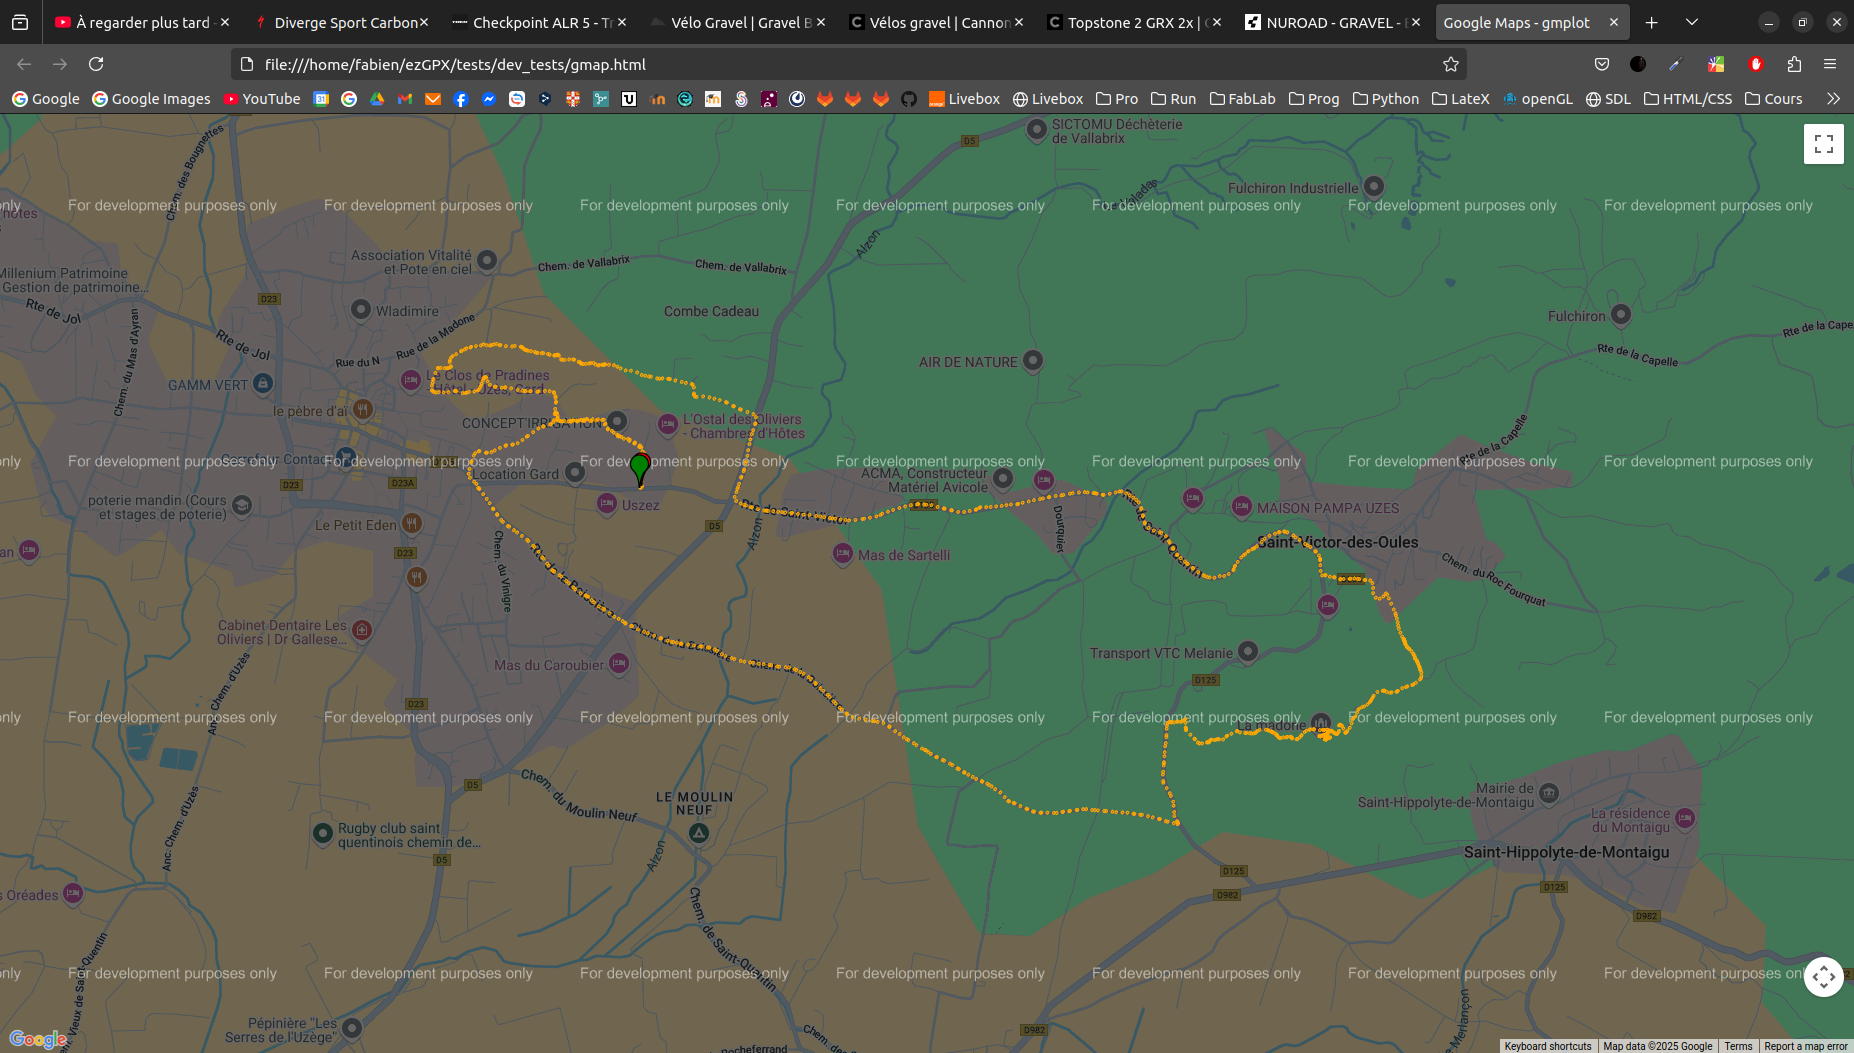
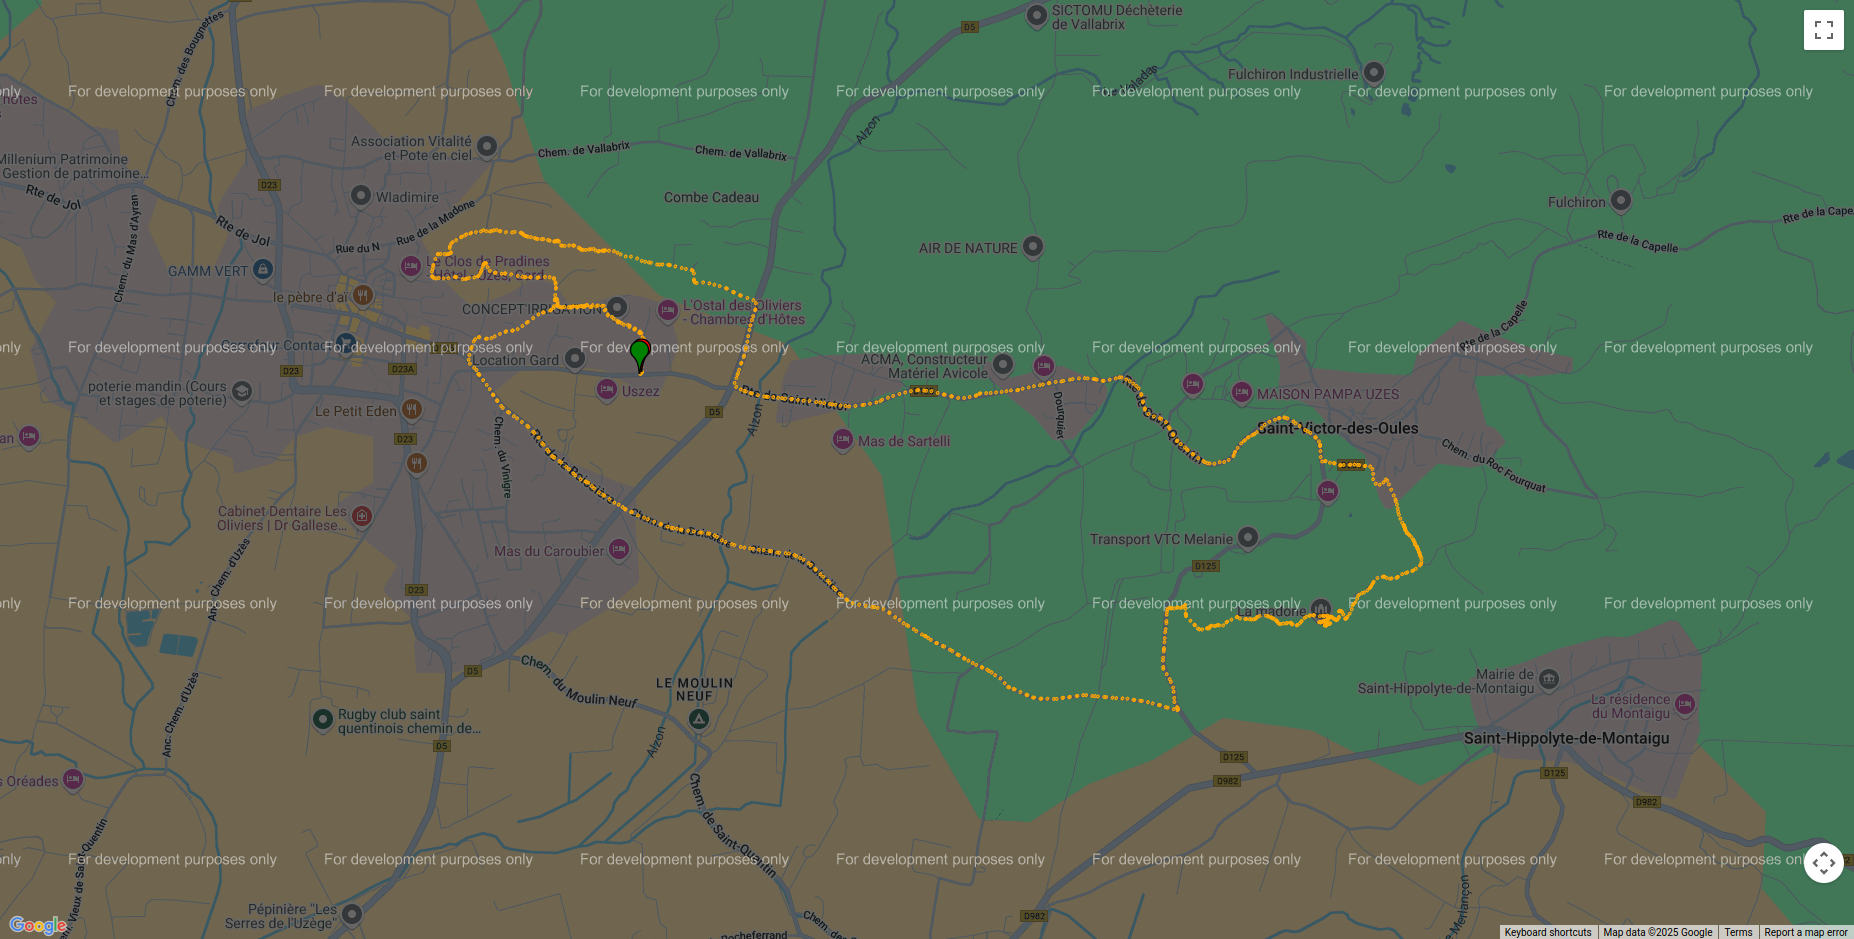
#1 #6 #5 Work in progress: - Update examples - Update doc - Update images
[ci skip]

diff --git a/examples/plot.py b/examples/plot.py
@@ -24,7 +24,7 @@ plotter.plot(
 # Animated plot with Matplotlib
 plotter = ezgpx.MatplotlibAnimPlotter(gpx)
 plotter.plot(
-    figsize=(9, 16),
+    figsize=(16, 9),
     size=10,
     color="#FFA800",
     background="World_Imagery",

diff --git a/docs/source/tutorials/plotting.rst b/docs/source/tutorials/plotting.rst
@@ -40,7 +40,7 @@ Relying on the well known Matplotlib library, you can create static or animated 
     # Animated plot with Matplotlib
     plotter = ezgpx.MatplotlibAnimPlotter(gpx)
     plotter.plot(
-        figsize=(9, 16),
+        figsize=(16, 9),
         size=10,
         color="#FFA800",
         background="World_Imagery",
